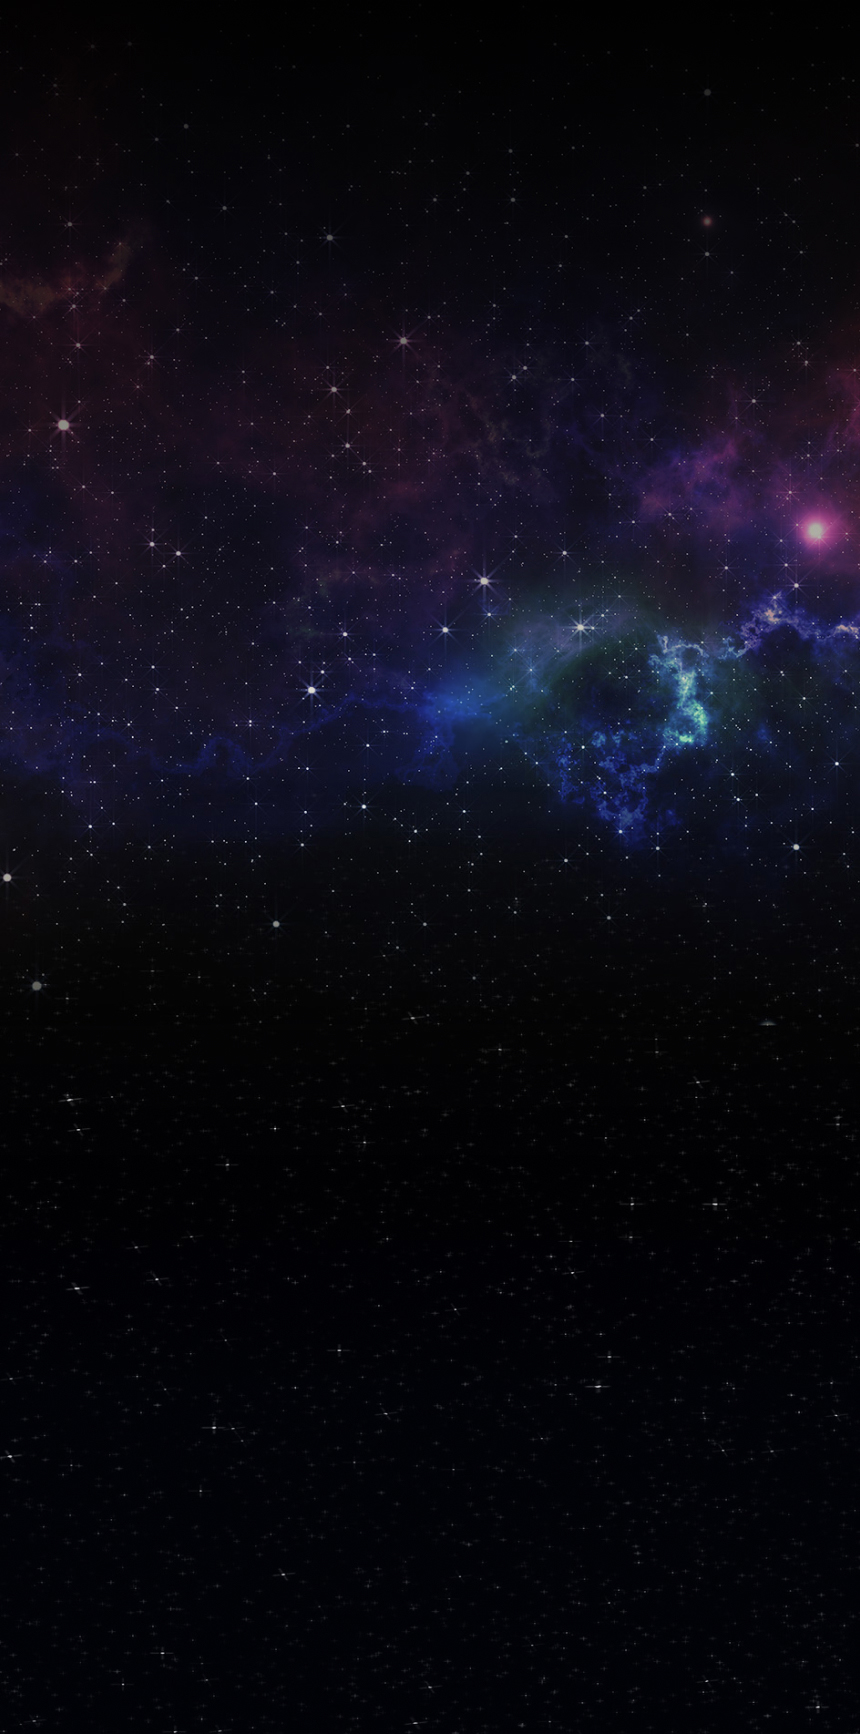
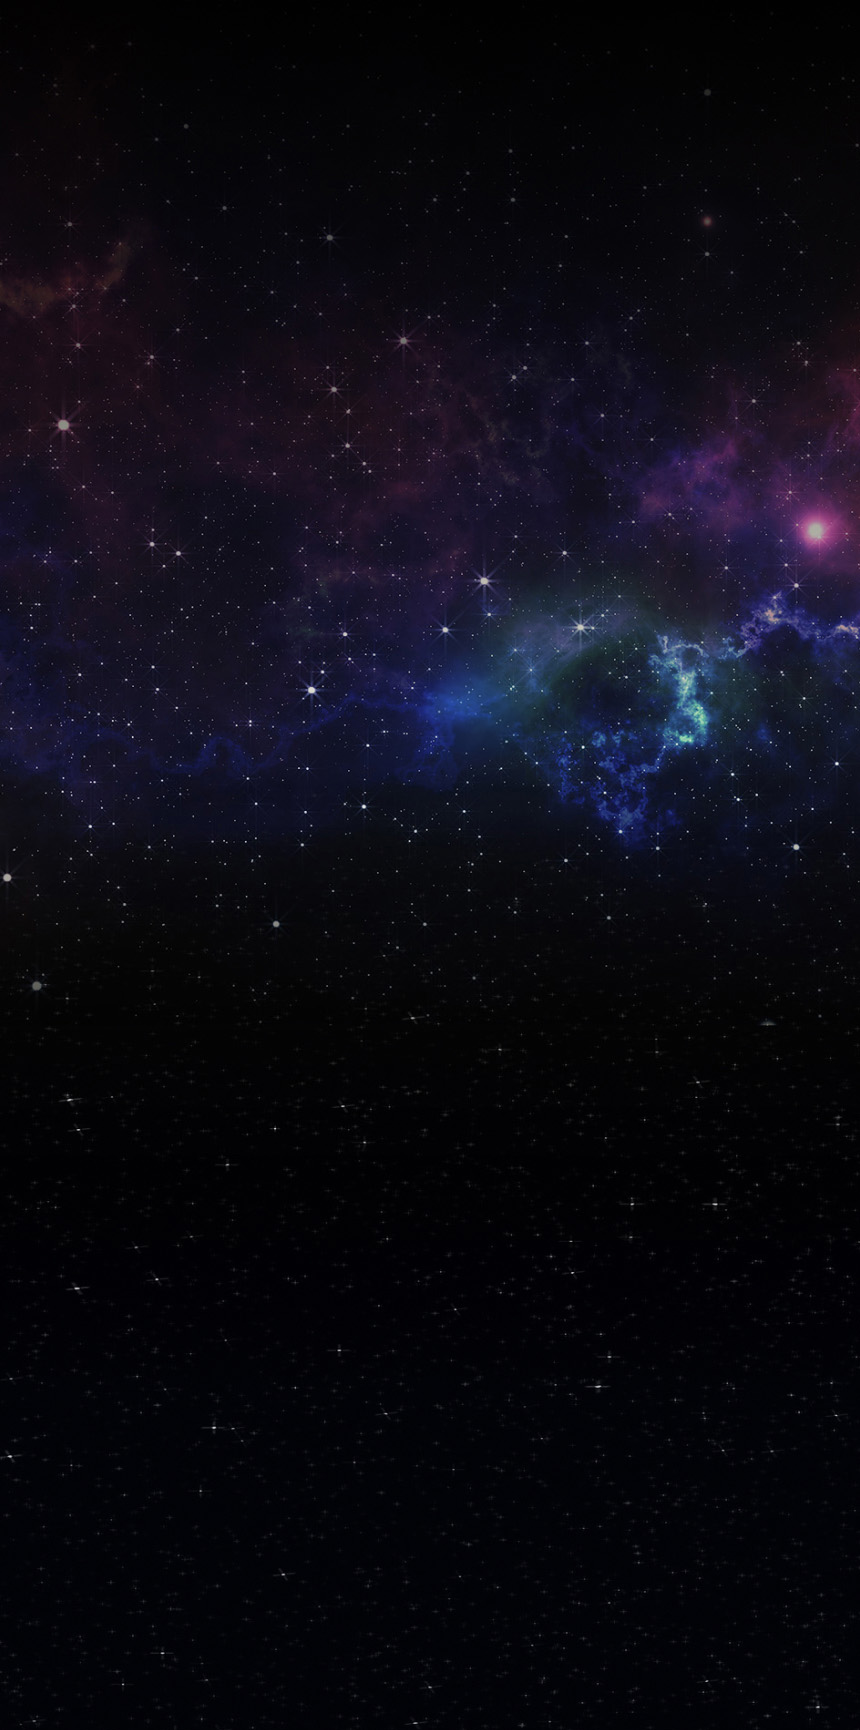
fix: UI bugs

diff --git a/src/styles/main.scss b/src/styles/main.scss
@@ -68,8 +68,8 @@ html {
 }
 
 [data-theme="light"] {
-    --page-background-color: #000000;
-    --game-background-image: url("/static/images/bg-galaxy.jpg");
+    --page-background-color: #000;
+    --game-background-image: url("/static/images/bg-galaxy.jpg?v=1");
     --background-image: url("/static/images/bg.jpg");
     --text-color: #2c2f3e;
 
@@ -94,7 +94,7 @@ html {
 // To dock the footer
 html,
 body {
-    height: 100%;
+    height: 100vh;
     scrollbar-width: none;
 }
 
@@ -106,7 +106,9 @@ body {
 body {
     padding: 0;
     margin: 0;
-    background: var(--page-background-color) var(--background-image) no-repeat top center fixed;
+    background: var(--page-background-color) var(--background-image) no-repeat;
+    background-size: top center;
+    background-attachment: fixed;
     font: 1.4rem/1.5 var(--font-family);
     color: var(--text-color);
     overscroll-behavior: contain;

diff --git a/src/components/page-components/background/index.tsx b/src/components/page-components/background/index.tsx
@@ -1,11 +1,10 @@
-
 export const BackgroundGalaxy = () => {
     return (
         <>
             <div className="background-galaxy">
-                <img className="galaxy-2" src="/static/images/bg-galaxy.jpg" alt="galaxy" />
+                <img className="galaxy-2" src="/static/images/bg-galaxy.jpg?v=1" alt="galaxy" />
                 <div className="galaxy-1-container">
-                    <img className="galaxy-1" src="/static/images/bg-galaxy.jpg" alt="galaxy" />
+                    <img className="galaxy-1" src="/static/images/bg-galaxy.jpg?v=1" alt="galaxy" />
                 </div>
             </div>
             <div className="star-field">
@@ -17,4 +16,4 @@ export const BackgroundGalaxy = () => {
     );
 };
 
-export default BackgroundGalaxy
+export default BackgroundGalaxy;
